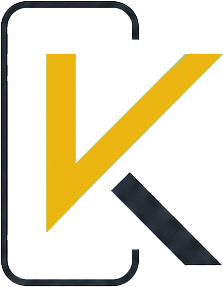
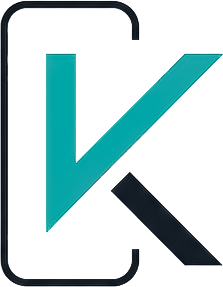
Move to updated project structure with latest fixes

diff --git a/knovix-ecommerce-plugin-updated/src/components/Header.jsx b/knovix-ecommerce-plugin-updated/src/components/Header.jsx
@@ -84,10 +84,10 @@ export default function Header({ menuOpen, setMenuOpen }) {
       {/* Promo bar — scrolling messages only; Deals/New Arrivals/Brands
           live in one place per breakpoint (see quickLinks) so they don't
           repeat here too. */}
-      <div className="bg-brand-600 text-ink-900 text-xs overflow-hidden">
+      <div className="bg-ink-900 text-white text-xs overflow-hidden">
         <div className="container-px max-w-7xl mx-auto flex items-center py-1.5">
           <div className="flex-1 min-w-0 overflow-hidden">
-            <div className="marquee-track flex items-center gap-10 whitespace-nowrap w-max font-medium">
+            <div className="marquee-track flex items-center gap-10 whitespace-nowrap w-max">
               {[...promoMessages, ...promoMessages].map((msg, i) => (
                 <span key={i}>{msg}</span>
               ))}
@@ -164,7 +164,7 @@ export default function Header({ menuOpen, setMenuOpen }) {
             <button
               type="submit"
               aria-label="Search"
-              className="flex items-center justify-center w-11 shrink-0 bg-brand-600 hover:bg-brand-500 text-ink-900"
+              className="flex items-center justify-center w-11 shrink-0 bg-brand-600 hover:bg-brand-700 text-white"
             >
               <SearchIcon className="w-[18px] h-[18px]" />
             </button>
@@ -252,7 +252,7 @@ export default function Header({ menuOpen, setMenuOpen }) {
             <span className="relative">
               <HeartIcon className="w-5 h-5" />
               {wishCount > 0 && (
-                <span className="absolute -top-1.5 -right-2 bg-brand-600 text-ink-900 text-[9px] rounded-full w-4 h-4 flex items-center justify-center">
+                <span className="absolute -top-1.5 -right-2 bg-brand-600 text-white text-[9px] rounded-full w-4 h-4 flex items-center justify-center">
                   {wishCount}
                 </span>
               )}
@@ -340,7 +340,7 @@ export default function Header({ menuOpen, setMenuOpen }) {
             </span>
 
             {count > 0 && (
-              <span className="absolute -top-1 -right-2 bg-brand-600 text-ink-900 text-[10px] rounded-full w-4 h-4 flex items-center justify-center">
+              <span className="absolute -top-1 -right-2 bg-brand-600 text-white text-[10px] rounded-full w-4 h-4 flex items-center justify-center">
                 {count}
               </span>
             )}
@@ -368,8 +368,8 @@ export default function Header({ menuOpen, setMenuOpen }) {
       </div>
 
       {/* Desktop navigation */}
-      <nav className="hidden lg:block bg-ink-900">
-        <div className="container-px max-w-7xl mx-auto flex items-center gap-6 py-2.5 text-sm font-medium">
+      <nav className="hidden lg:block border-t border-slate-100">
+        <div className="container-px max-w-7xl mx-auto flex items-center gap-6 py-2 text-sm font-medium">
 
           {navLinks.map((l) => (
             <NavLink
@@ -377,8 +377,8 @@ export default function Header({ menuOpen, setMenuOpen }) {
               to={l.to}
               className={({ isActive }) =>
                 isActive
-                  ? 'text-brand-500'
-                  : 'text-white hover:text-brand-500'
+                  ? 'text-brand-700'
+                  : 'text-slate-700 hover:text-brand-700'
               }
               end={l.to === '/'}
             >

diff --git a/knovix-ecommerce-plugin-updated/src/pages/Home.jsx b/knovix-ecommerce-plugin-updated/src/pages/Home.jsx
@@ -205,15 +205,15 @@ export default function Home() {
       </section>
 
       <section className="container-px max-w-7xl mx-auto">
-        <div className="bg-gradient-to-r from-brand-500 to-brand-600 text-ink-900 rounded-xl p-5 sm:p-6 flex flex-wrap items-center justify-between gap-4">
+        <div className="bg-gradient-to-r from-brand-600 to-brand-700 text-white rounded-xl p-5 sm:p-6 flex flex-wrap items-center justify-between gap-4">
           <div>
             <p className="text-xs font-semibold flex items-center gap-1">⚡ FLASH SALE</p>
             <h3 className="text-xl sm:text-2xl font-bold mt-1">Mega Deals on Top Gadgets!</h3>
-            <p className="text-sm text-ink-800">Limited time offers. Grab before it's gone.</p>
+            <p className="text-sm text-brand-100">Limited time offers. Grab before it's gone.</p>
           </div>
           <div className="flex gap-2 sm:gap-3 text-center">
             {[['Days', d], ['Hours', h], ['Minutes', m], ['Seconds', s]].map(([label, val]) => (
-              <div key={label} className="bg-black text-white rounded-lg px-2.5 sm:px-3 py-2 min-w-[52px] sm:min-w-[60px]">
+              <div key={label} className="bg-black/30 rounded-lg px-2.5 sm:px-3 py-2 min-w-[52px] sm:min-w-[60px]">
                 <p className="text-lg sm:text-xl font-bold">{String(val).padStart(2, '0')}</p>
                 <p className="text-[10px] uppercase">{label}</p>
               </div>

diff --git a/knovix-ecommerce-plugin-updated/tailwind.config.js b/knovix-ecommerce-plugin-updated/tailwind.config.js
@@ -5,20 +5,20 @@ export default {
     extend: {
       colors: {
         brand: {
-          50: '#fffbea',
-          100: '#fff3c4',
-          200: '#fce588',
-          300: '#fad855',
-          400: '#f8cd2e',
-          500: '#f6c20d',
-          600: '#eab308', // primary gold-yellow (logo, buttons, links, prices)
-          700: '#b58a04',
-          800: '#8a6a05',
-          900: '#5c4703'
+          50: '#f2f8fa',
+          100: '#e1f0f4',
+          200: '#c0dfe7',
+          300: '#8dc8d8',
+          400: '#52aec7',
+          500: '#328ca4',
+          600: '#247085', // primary peacock (logo, buttons, links, prices)
+          700: '#1b596a',
+          800: '#154451',
+          900: '#10333c'
         },
         ink: {
-          900: '#0d0d0d', // near-black for footer / darkest UI
-          800: '#1a1a1a'  // heading text, tuned to sit with the black/yellow palette
+          900: '#0f2530', // deep peacock-navy for footer / darkest UI
+          800: '#1e3a47'  // heading text, tuned to sit with the peacock palette
         },
         amber: {
           400: '#fab816' // star rating gold

diff --git a/knovix-ecommerce-plugin-updated/src/index.css b/knovix-ecommerce-plugin-updated/src/index.css
@@ -9,7 +9,7 @@ h1,h2,h3,h4 { @apply font-display; }
 .btn {
   @apply inline-flex items-center justify-center gap-2 rounded-md px-5 py-2.5 font-semibold text-sm transition-colors disabled:opacity-50 disabled:cursor-not-allowed;
 }
-.btn-primary { @apply btn bg-brand-600 text-ink-900 hover:bg-brand-500; }
+.btn-primary { @apply btn bg-brand-600 text-white hover:bg-brand-700; }
 .btn-outline { @apply btn border border-brand-600 text-brand-700 hover:bg-brand-50; }
 .btn-dark { @apply btn bg-ink-900 text-white hover:bg-ink-800; }
 .btn-ghost { @apply btn text-ink-900 hover:bg-slate-100; }
@@ -63,8 +63,8 @@ h1,h2,h3,h4 { @apply font-display; }
 
 /* Hero: gentle price/badge pulse */
 @keyframes hero-pulse-ring {
-  0% { box-shadow: 0 0 0 0 rgba(234, 179, 8, 0.35); }
-  100% { box-shadow: 0 0 0 10px rgba(234, 179, 8, 0); }
+  0% { box-shadow: 0 0 0 0 rgba(12, 115, 103, 0.35); }
+  100% { box-shadow: 0 0 0 10px rgba(12, 115, 103, 0); }
 }
 .hero-pulse-ring { animation: hero-pulse-ring 2s ease-out infinite; }
 

diff --git a/knovix-ecommerce-plugin-updated/src/components/HeroCarousel.jsx b/knovix-ecommerce-plugin-updated/src/components/HeroCarousel.jsx
@@ -85,7 +85,7 @@ export default function HeroCarousel({ slides = [] }) {
                   <div className="flex items-center gap-2.5 mt-3 sm:mt-5">
                     <Link
                       to={slide.href}
-                      className="inline-flex items-center gap-1 bg-brand-600 text-ink-900 text-xs sm:text-sm font-semibold px-3.5 sm:px-5 py-1.5 sm:py-2.5 rounded-md hover:bg-brand-500 transition-colors"
+                      className="inline-flex items-center gap-1 bg-brand-600 text-white text-xs sm:text-sm font-semibold px-3.5 sm:px-5 py-1.5 sm:py-2.5 rounded-md hover:bg-brand-700 transition-colors"
                     >
                       {slide.cta}
                       <ChevronRightIcon className="w-3.5 h-3.5" />

diff --git a/knovix-ecommerce-plugin-updated/src/pages/admin/OrderDetail.jsx b/knovix-ecommerce-plugin-updated/src/pages/admin/OrderDetail.jsx
@@ -57,7 +57,7 @@ export default function OrderDetail() {
             <button
               key={s}
               onClick={() => handleStatus(s)}
-              className={`text-xs font-medium rounded-full px-3 py-1.5 capitalize border ${order.status === s ? 'bg-brand-600 text-ink-900 border-brand-600' : 'border-slate-300 text-slate-600'}`}
+              className={`text-xs font-medium rounded-full px-3 py-1.5 capitalize border ${order.status === s ? 'bg-brand-600 text-white border-brand-600' : 'border-slate-300 text-slate-600'}`}
             >
               {s}
             </button>

diff --git a/knovix-ecommerce-plugin-updated/src/components/BottomNav.jsx b/knovix-ecommerce-plugin-updated/src/components/BottomNav.jsx
@@ -33,7 +33,7 @@ export default function BottomNav({ menuOpen, setMenuOpen }) {
         <span className="relative">
           <CartIcon className="w-5 h-5" />
           {count > 0 && (
-            <span className="absolute -top-1.5 -right-2.5 bg-brand-600 text-ink-900 text-[9px] rounded-full w-4 h-4 flex items-center justify-center">
+            <span className="absolute -top-1.5 -right-2.5 bg-brand-600 text-white text-[9px] rounded-full w-4 h-4 flex items-center justify-center">
               {count}
             </span>
           )}

diff --git a/knovix-ecommerce-plugin-updated/src/layouts/AdminLayout.jsx b/knovix-ecommerce-plugin-updated/src/layouts/AdminLayout.jsx
@@ -19,7 +19,7 @@ export default function AdminLayout() {
               key={l.to}
               to={l.to}
               end={l.end}
-              className={({ isActive }) => `block px-3 py-2 rounded-md text-sm ${isActive ? 'bg-brand-600 text-ink-900' : 'text-slate-300 hover:bg-white/10'}`}
+              className={({ isActive }) => `block px-3 py-2 rounded-md text-sm ${isActive ? 'bg-brand-600 text-white' : 'text-slate-300 hover:bg-white/10'}`}
             >
               {l.label}
             </NavLink>

diff --git a/knovix-ecommerce-plugin-updated/src/components/MobileMenuSheet.jsx b/knovix-ecommerce-plugin-updated/src/components/MobileMenuSheet.jsx
@@ -133,7 +133,7 @@ export default function MobileMenuSheet({ menuOpen, setMenuOpen }) {
               <CartIcon className="w-4.5 h-4.5 text-slate-400" /> Cart
             </span>
             {count > 0 && (
-              <span className="bg-brand-600 text-ink-900 text-xs rounded-full px-2 py-0.5">
+              <span className="bg-brand-600 text-white text-xs rounded-full px-2 py-0.5">
                 {count}
               </span>
             )}
